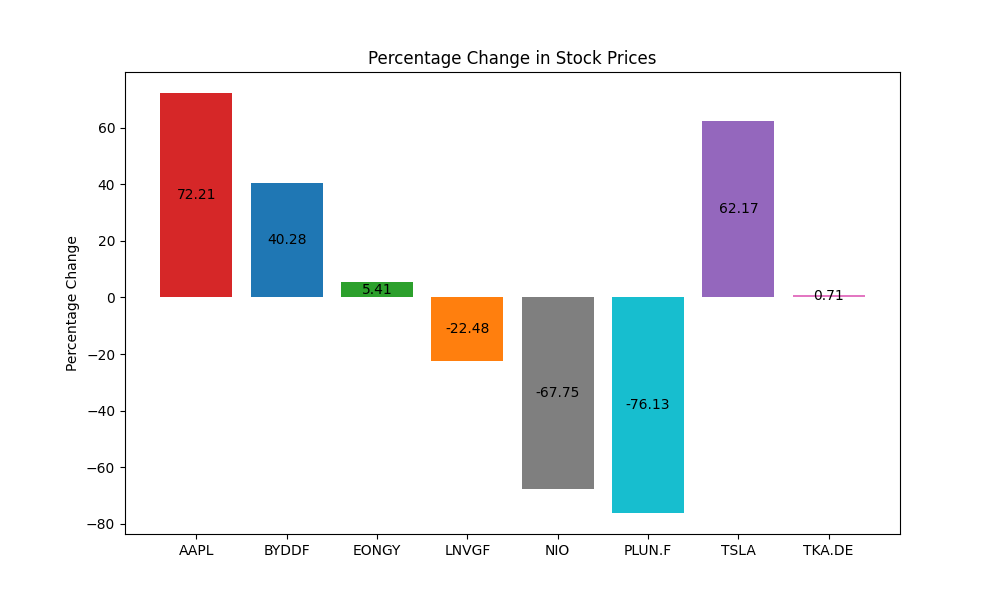
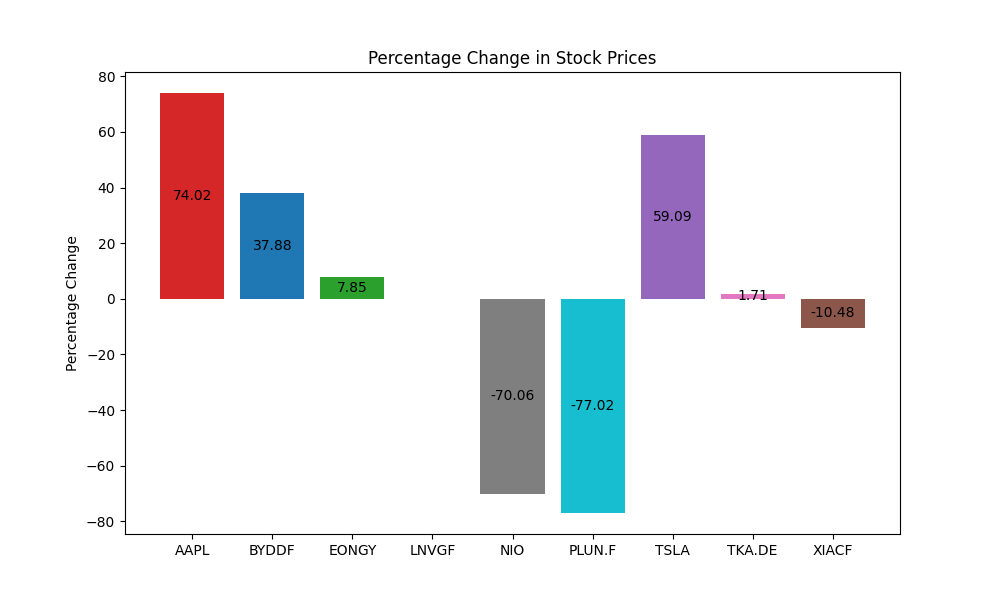
test adding graph

diff --git a/send_email.py b/send_email.py
@@ -1,43 +1,3 @@
-import smtplib, ssl
-import os
-import pandas as pd
-import yfinance as yf
-from datetime import datetime, timedelta
-from email.mime.text import MIMEText
-from email.mime.multipart import MIMEMultipart
-from matplotlib import pyplot as plt
-from io import BytesIO
-
-# #### G E T _ S T O C K _ P R I C E S ####
-
-# tickers = ['AAPL', 'BYDDF', 'EONGY', 'LNVGF', 'NIO', 'PLUN.F', 'TSLA', 'TKA.DE', 'XIACF']
-# end_date = datetime.today()
-# start_date = end_date - timedelta(days=2 * 365)
-
-# close_df = pd.DataFrame()
-
-# for ticker in tickers:
-#     data = yf.download(ticker, start=start_date, end=end_date)
-#     close_df[ticker] = data['Close']
-
-# close_df.reset_index(inplace=True)
-
-# #### P L O T ####
-
-# plt.figure(figsize=(10, 6))
-# for ticker in tickers:
-#     plt.plot(close_df['Date'], close_df[ticker], label=ticker)
-# plt.legend()
-# plt.xlabel('Date')
-# plt.ylabel('Close Price')
-# plt.title('Close Prices of Selected Stocks')
-
-# # Speichern des Graphen als Bild
-# image_file_name = 'stock_prices.png'
-# plt.savefig(image_file_name)
-# plt.close()
-
-#### S E N D I N G _ E - M A I L ####
 import smtplib
 import ssl
 import os
@@ -63,18 +23,19 @@ for ticker in tickers:
 
 close_df.reset_index(inplace=True)
 
-#### P L O T ####
+#### P E R S O N A L _ S T O C K S ####
 
 tickers = ['AAPL', 'BYDDF', 'EONGY', 'LNVGF', 'NIO', 'PLUN.F', 'TSLA', 'TKA.DE', 'XIACF']
 stock_buy_price = [110.96, 24.95, 11.47, 1.419, 47.81, 45.544, 159.95, 6.799474, 1.6198]
 
-# Calculate percentage change
+#### C A L C I L A T E _ P E R C E N T A G E _ C H A N G E
+
 stock_close_price = close_df.iloc[-1, 1:].tolist()
 percentage_change = [(close_price - buy_price) / buy_price * 100 for close_price, buy_price in zip(stock_close_price, stock_buy_price)]
 percentage_change = [round(change, 2) for change in percentage_change]
 
 
-# Visualization of Stocks
+#### V I S U A L I Z A T I O N _ O F _ S T O C K S
 plt.figure(figsize = (10,6))
 bars = plt.bar(tickers, percentage_change, color = 'tab:blue')
 
@@ -88,7 +49,7 @@ plt.ylabel('Percentage Change')
 plt.title('Percentage Change in Stock Prices')
 #ax.legend(title='Stocks and Percentage Change')
 
-# Speichern des Graphen als Bild
+# S A V E _ A S _ I M A G E
 image_file_name = 'stock_prices.png'
 plt.savefig(image_file_name)
 plt.close()
@@ -100,7 +61,8 @@ smtp_server = "smtp.gmail.com"
 USERNAME = os.environ.get('USER_EMAIL')
 PASSWORD = os.environ.get('USER_PASSWORD')
 
-# Erstelle die E-Mail
+# C R E A T E _ M A I L 
+
 message = MIMEMultipart()
 message['From'] = USERNAME
 message['To'] = USERNAME
@@ -108,7 +70,8 @@ message['Subject'] = "GitHub Email Report"
 body = "Das ist eine automatisierte Mail mit einem Graphen der Schlusskurse der ausgewählten Aktien im Anhang."
 message.attach(MIMEText(body, 'plain'))
 
-# Füge den Graphen als Anhang hinzu
+# A T T C H M E N T 
+
 with open(image_file_name, 'rb') as attachment:
     part = MIMEText(attachment.read(), 'png', _charset='utf-8')
     part.add_header('Content-Disposition', 'attachment', filename=image_file_name)

diff --git a/test.py b/test.py
@@ -13,24 +13,34 @@ start_date = end_date - timedelta(days= 2 * 365)
 
 close_df = pd.DataFrame()
 
-for ticker in tickers:
-    data = yf.download(ticker, start = start_date, end = end_date)
-    close_df[ticker] = data['Close']
+# for ticker in tickers:
+#     data = yf.download(ticker, start = start_date, end = end_date)
+#     close_df[ticker] = data['Close']
 
-close_df.reset_index(inplace=True)
-
+# close_df.reset_index(inplace=True)
+df = pd.read_csv('close_data.csv')
 #### P L O T ####
+#### G E T _ S T O C K _ P R I C E S ####
+
+tickers = ['AAPL', 'BYDDF', 'EONGY', 'LNVGF', 'NIO', 'PLUN.F', 'TSLA', 'TKA.DE', 'XIACF']
+end_date = datetime.today()
+start_date = end_date - timedelta(days= 2 * 365)
+
+
+
+#### P E R S O N A L _ S T O C K S ####
 
 tickers = ['AAPL', 'BYDDF', 'EONGY', 'LNVGF', 'NIO', 'PLUN.F', 'TSLA', 'TKA.DE', 'XIACF']
 stock_buy_price = [110.96, 24.95, 11.47, 1.419, 47.81, 45.544, 159.95, 6.799474, 1.6198]
 
-# Calculate percentage change
-stock_close_price = close_df.iloc[-1, 1:].tolist()
+#### C A L C I L A T E _ P E R C E N T A G E _ C H A N G E
+
+stock_close_price = df.iloc[-1, 1:].tolist()
 percentage_change = [(close_price - buy_price) / buy_price * 100 for close_price, buy_price in zip(stock_close_price, stock_buy_price)]
 percentage_change = [round(change, 2) for change in percentage_change]
 
 
-# Visualization of Stocks
+#### V I S U A L I Z A T I O N _ O F _ S T O C K S
 plt.figure(figsize = (10,6))
 bars = plt.bar(tickers, percentage_change, color = 'tab:blue')
 
@@ -44,7 +54,7 @@ plt.ylabel('Percentage Change')
 plt.title('Percentage Change in Stock Prices')
 #ax.legend(title='Stocks and Percentage Change')
 
-# Speichern des Graphen als Bild
+# S A V E _ A S _ I M A G E
 image_file_name = 'stock_prices.png'
 plt.savefig(image_file_name)
-plt.close()
+plt.show()
